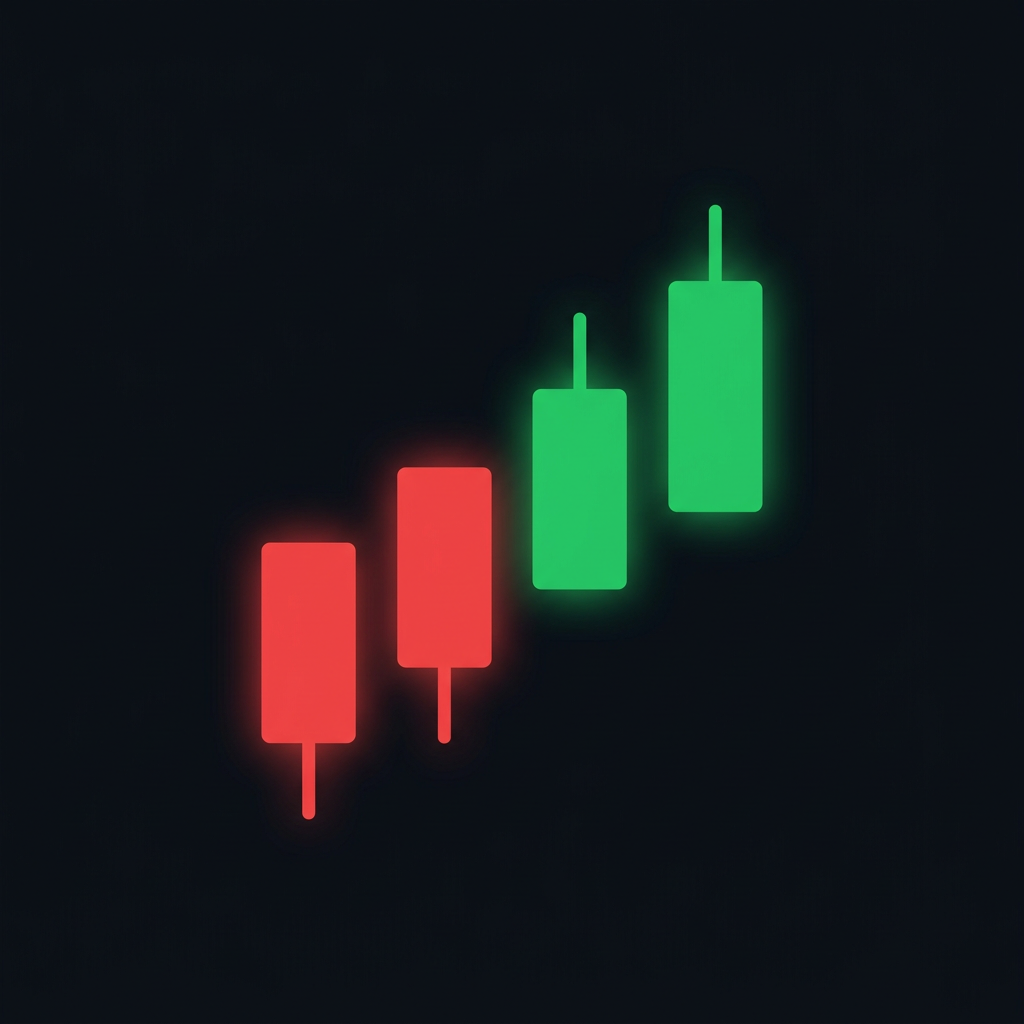
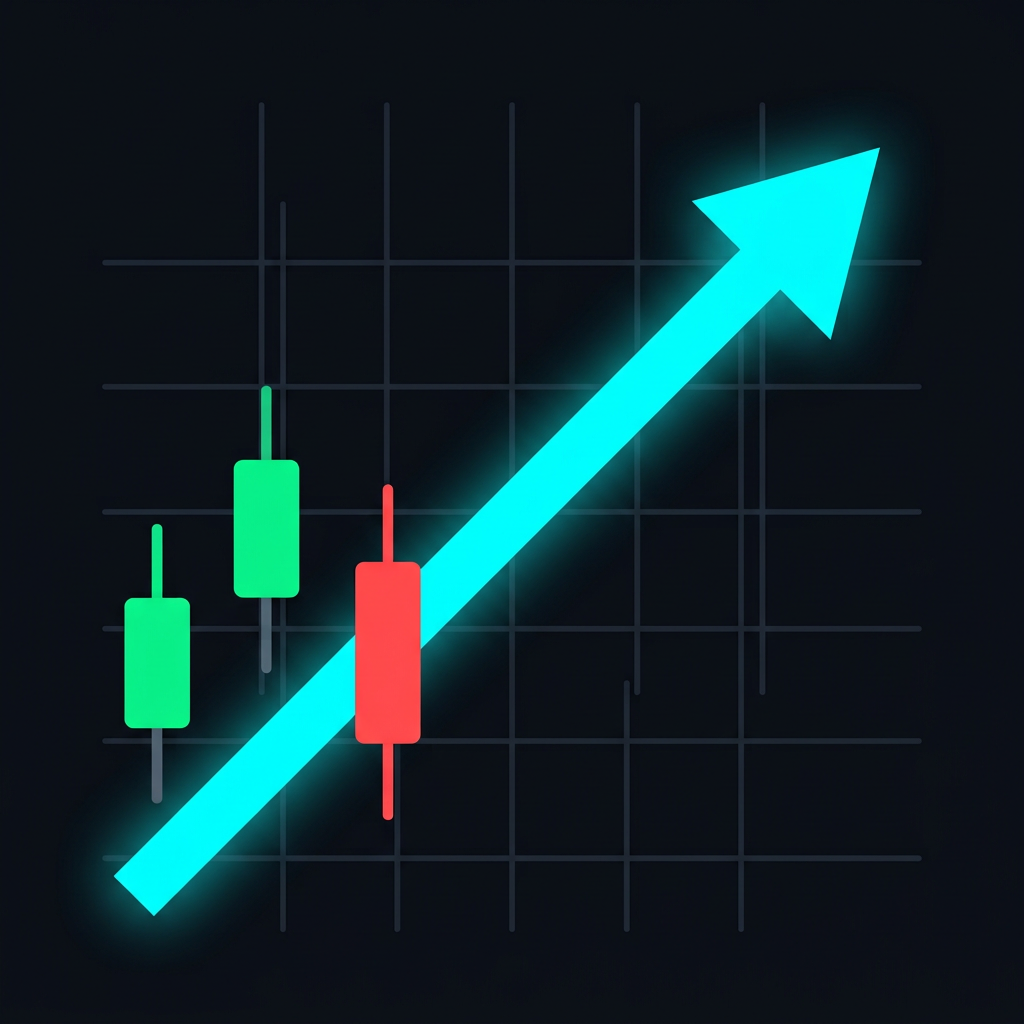
fix(android): 'müzik uygulaması' görünümü — yeni trading ikonu + hata ekranı
- İkon yeniden üretildi: mumlar + ızgara + kalın cyan yükseliş oku —
  küçük boyutta ekolayzır değil, grafik olarak okunur; splash'e SPINS
  wordmark eklendi (PWA ikonları da yenilendi)
- public/offline.html + server.errorPath: site yüklenemezse Türkçe
  'bağlantı yok' ekranı + Tekrar Dene + 10sn otomatik yeniden deneme
- apk.yml: concurrency (tek build, eskiyi iptal), artifact adına sha
- Actions geçmişindeki eski kırmızı X (ilk bozuk yml run'ı) silindi

Changed region(s): [[0.0938, 0.0938, 0.9062, 0.9375]]

diff --git a/public/offline.html b/public/offline.html
@@ -1,0 +1,45 @@
+<!DOCTYPE html>
+<html lang="tr">
+<head>
+<meta charset="UTF-8" />
+<meta name="viewport" content="width=device-width, initial-scale=1.0, viewport-fit=cover" />
+<title>Spins — Bağlantı Yok</title>
+<style>
+  :root { color-scheme: dark; }
+  * { margin: 0; padding: 0; box-sizing: border-box; -webkit-tap-highlight-color: transparent; }
+  body {
+    background: #0B0E14; color: #f1f5f9; min-height: 100dvh;
+    display: flex; flex-direction: column; align-items: center; justify-content: center;
+    font-family: ui-monospace, 'JetBrains Mono', Menlo, monospace;
+    padding: 24px; text-align: center;
+  }
+  .logo { font-size: 44px; letter-spacing: 8px; color: #22d3ee; font-weight: 800; margin-bottom: 18px; }
+  h1 { font-size: 17px; margin-bottom: 8px; }
+  p { font-size: 13px; color: #94a3b8; line-height: 1.6; max-width: 320px; margin-bottom: 28px; }
+  button {
+    background: rgba(34, 211, 238, 0.12); color: #22d3ee;
+    border: 1px solid rgba(34, 211, 238, 0.4); border-radius: 10px;
+    padding: 12px 28px; font: inherit; font-size: 14px; font-weight: 700;
+    min-height: 48px; cursor: pointer; touch-action: manipulation;
+  }
+  button:active { transform: scale(0.97); }
+  .hint { margin-top: 20px; font-size: 11px; color: #475569; }
+</style>
+</head>
+<body>
+  <div class="logo">SPINS</div>
+  <h1>Canlı terminale ulaşılamıyor</h1>
+  <p>İnternet bağlantını ya da ağ erişimini kontrol et. Terminal açıldığında veri akışı otomatik başlar.</p>
+  <button onclick="location.replace('https://spins.vercel.app')">Tekrar Dene</button>
+  <div class="hint" id="hint">10 saniye içinde otomatik yeniden denenecek…</div>
+  <script>
+    var left = 10;
+    var t = setInterval(function () {
+      left--;
+      var el = document.getElementById('hint');
+      if (left <= 0) { clearInterval(t); el.textContent = 'Yeniden deneniyor…'; location.replace('https://spins.vercel.app'); }
+      else { el.textContent = left + ' saniye içinde otomatik yeniden denenecek…'; }
+    }, 1000);
+  </script>
+</body>
+</html>

diff --git a/README-APK.md b/README-APK.md
@@ -33,6 +33,10 @@ cd android && ./gradlew assembleDebug
 # çıktı: android/app/build/outputs/apk/debug/app-debug.apk
 ```
 
+## Çevrimdışı / hata ekranı
+Site yüklenemezse (ağ kesintisi vb.) WebView `public/offline.html`'e düşer:
+SPINS ekranı + "Tekrar Dene" + 10sn otomatik yeniden deneme.
+
 ## Kabuk ayarları
 `capacitor.config.json` — hedef URL, appId, uygulama adı. İkon/splash:
 `android/app/src/main/res/` (koyu tema, neon mum ikonu).
